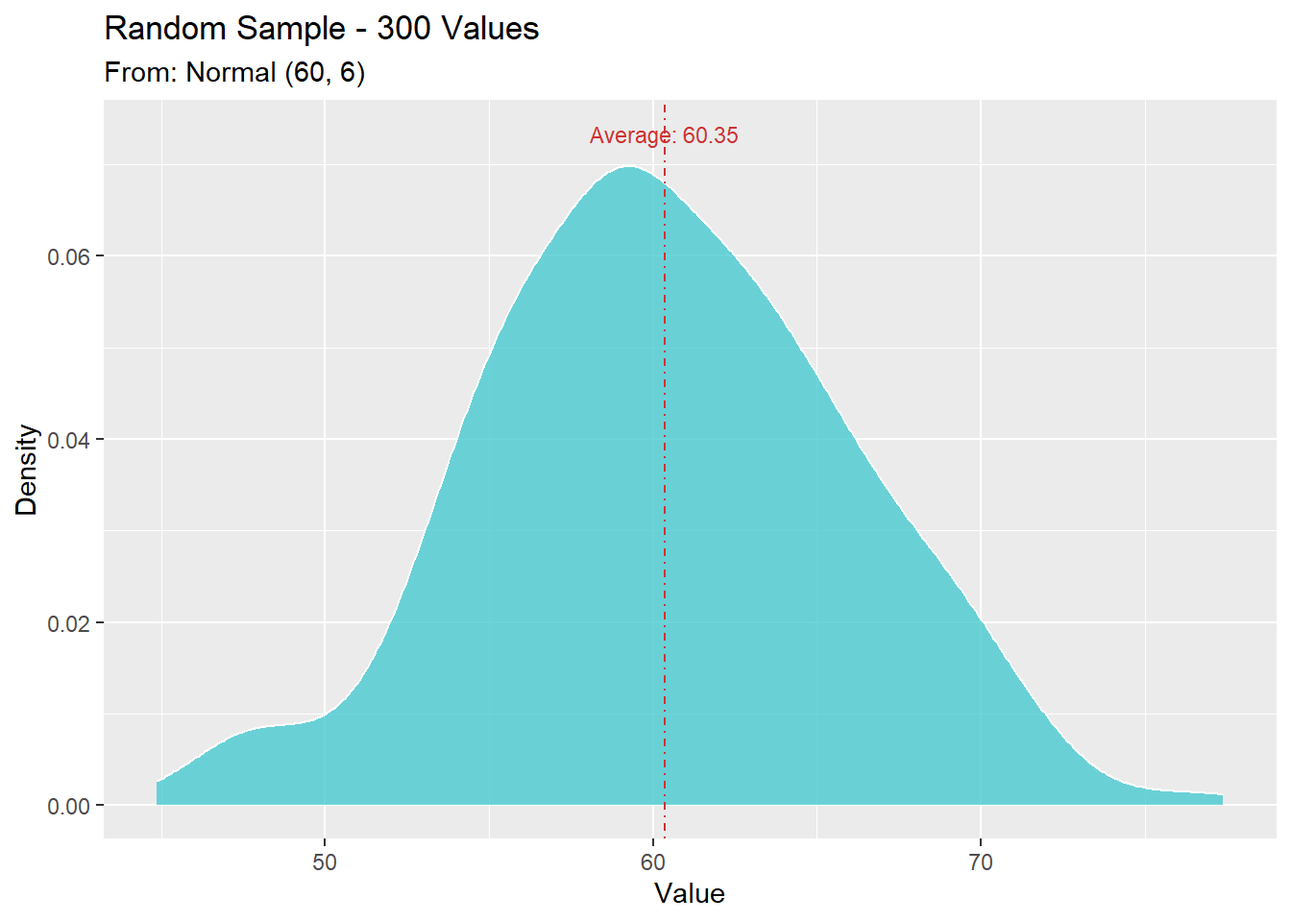
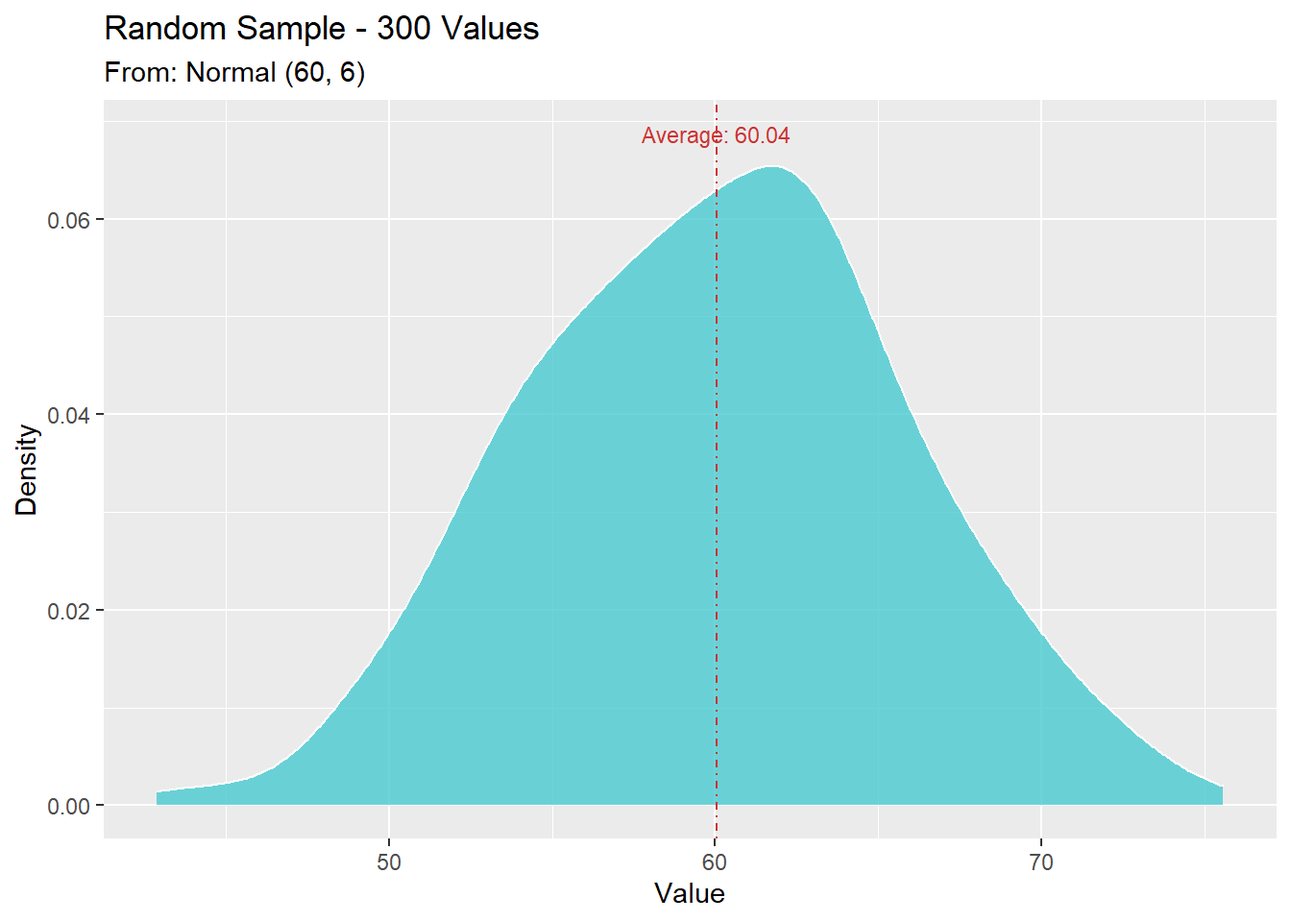
z test and t 4

diff --git a/משתנים-מקריים-והתפלגויות.html b/משתנים-מקריים-והתפלגויות.html
@@ -259,43 +259,43 @@ code span.wa { color: #60a0b0; font-weight: bold; font-style: italic; } /* Warni
 <pre><code>rgeom(n, prob)</code></pre>
 <p>דוגמה: נדגום 10 פעמים מתוך התפלגות גיאומטרית עם סיכוי 1/6 להצלחה.
 כמה כשלונות לפני ההצלחה הראשונה יהיו בכל אחד מהמקרים?</p>
-<div class="sourceCode" id="cb138"><pre class="sourceCode r"><code class="sourceCode r"><span id="cb138-1"><a href="משתנים-מקריים-והתפלגויות.html#cb138-1" aria-hidden="true" tabindex="-1"></a><span class="fu">rgeom</span>(<span class="at">n=</span><span class="dv">10</span>, <span class="at">prob=</span><span class="dv">1</span><span class="sc">/</span><span class="dv">6</span>)</span></code></pre></div>
-<pre><code>##  [1]  3 11  4  2  0 20  4  0  9  2</code></pre>
+<div class="sourceCode" id="cb2"><pre class="sourceCode r"><code class="sourceCode r"><span id="cb2-1"><a href="משתנים-מקריים-והתפלגויות.html#cb2-1" aria-hidden="true" tabindex="-1"></a><span class="fu">rgeom</span>(<span class="at">n=</span><span class="dv">10</span>, <span class="at">prob=</span><span class="dv">1</span><span class="sc">/</span><span class="dv">6</span>)</span></code></pre></div>
+<pre><code>##  [1]  2 11  9  2  0  7  0 20  3  0</code></pre>
 <h3>
 מציאת הסתברות ספציפית
 </h3>
 <pre><code>dgeom(x, prob, log = FALSE)</code></pre>
 <p>דוגמא: ההסתברות למאורע של שלושה כשלונות לפני הצלחה כאשר הסיכוי להצלחה בודדת הוא 1/4</p>
-<div class="sourceCode" id="cb141"><pre class="sourceCode r"><code class="sourceCode r"><span id="cb141-1"><a href="משתנים-מקריים-והתפלגויות.html#cb141-1" aria-hidden="true" tabindex="-1"></a>p <span class="ot">=</span> (<span class="dv">1</span><span class="sc">/</span><span class="dv">4</span>)</span>
-<span id="cb141-2"><a href="משתנים-מקריים-והתפלגויות.html#cb141-2" aria-hidden="true" tabindex="-1"></a>n <span class="ot">=</span> <span class="dv">3</span></span>
-<span id="cb141-3"><a href="משתנים-מקריים-והתפלגויות.html#cb141-3" aria-hidden="true" tabindex="-1"></a><span class="fu">dgeom</span>(<span class="at">x =</span> n, <span class="at">prob =</span> p) <span class="co"># 0.1054688</span></span></code></pre></div>
-<p><img src="R-Tutorials_files/figure-html/unnamed-chunk-55-1.png" width="672" style="display: block; margin: auto auto auto 0;" /></p>
+<div class="sourceCode" id="cb5"><pre class="sourceCode r"><code class="sourceCode r"><span id="cb5-1"><a href="משתנים-מקריים-והתפלגויות.html#cb5-1" aria-hidden="true" tabindex="-1"></a>p <span class="ot">=</span> (<span class="dv">1</span><span class="sc">/</span><span class="dv">4</span>)</span>
+<span id="cb5-2"><a href="משתנים-מקריים-והתפלגויות.html#cb5-2" aria-hidden="true" tabindex="-1"></a>n <span class="ot">=</span> <span class="dv">3</span></span>
+<span id="cb5-3"><a href="משתנים-מקריים-והתפלגויות.html#cb5-3" aria-hidden="true" tabindex="-1"></a><span class="fu">dgeom</span>(<span class="at">x =</span> n, <span class="at">prob =</span> p) <span class="co"># 0.1054688</span></span></code></pre></div>
+<p><img src="R-Tutorials_files/figure-html/unnamed-chunk-3-1.png" width="672" style="display: block; margin: auto auto auto 0;" /></p>
 <h3>
 הסתברות מצטברת עד לנקודה p
 </h3>
 <pre><code>pgeom(q, prob, lower.tail = TRUE, log.p = FALSE)</code></pre>
 <p>דוגמא: ההסתברות המצטברת של עד ארבעה כישלונות לפני הצלחה. (כלומר, הסיכוי לקבל ארבעה כשלונות לכל היותר לפני ההצלחה הראשונה. סכום ההסתברויות) מתוך התפלגות גיאומטרית עם הסתברות 1/3 להצלחה.</p>
-<div class="sourceCode" id="cb143"><pre class="sourceCode r"><code class="sourceCode r"><span id="cb143-1"><a href="משתנים-מקריים-והתפלגויות.html#cb143-1" aria-hidden="true" tabindex="-1"></a>p <span class="ot">=</span> <span class="dv">1</span><span class="sc">/</span><span class="dv">3</span></span>
-<span id="cb143-2"><a href="משתנים-מקריים-והתפלגויות.html#cb143-2" aria-hidden="true" tabindex="-1"></a>n <span class="ot">=</span> <span class="dv">4</span></span>
-<span id="cb143-3"><a href="משתנים-מקריים-והתפלגויות.html#cb143-3" aria-hidden="true" tabindex="-1"></a><span class="fu">pgeom</span>(<span class="at">q =</span> n, <span class="at">prob =</span> p, <span class="at">lower.tail =</span> <span class="cn">TRUE</span>) <span class="co"># 0.8683128</span></span></code></pre></div>
-<p><img src="R-Tutorials_files/figure-html/unnamed-chunk-57-1.png" width="672" style="display: block; margin: auto auto auto 0;" /></p>
+<div class="sourceCode" id="cb7"><pre class="sourceCode r"><code class="sourceCode r"><span id="cb7-1"><a href="משתנים-מקריים-והתפלגויות.html#cb7-1" aria-hidden="true" tabindex="-1"></a>p <span class="ot">=</span> <span class="dv">1</span><span class="sc">/</span><span class="dv">3</span></span>
+<span id="cb7-2"><a href="משתנים-מקריים-והתפלגויות.html#cb7-2" aria-hidden="true" tabindex="-1"></a>n <span class="ot">=</span> <span class="dv">4</span></span>
+<span id="cb7-3"><a href="משתנים-מקריים-והתפלגויות.html#cb7-3" aria-hidden="true" tabindex="-1"></a><span class="fu">pgeom</span>(<span class="at">q =</span> n, <span class="at">prob =</span> p, <span class="at">lower.tail =</span> <span class="cn">TRUE</span>) <span class="co"># 0.8683128</span></span></code></pre></div>
+<p><img src="R-Tutorials_files/figure-html/unnamed-chunk-5-1.png" width="672" style="display: block; margin: auto auto auto 0;" /></p>
 <h3>
 הסתברות מצטברת מנקודה p (כל הערכים שגדולים מ-p)
 </h3>
 <p>דוגמא: ההסתברות המצטברת של לפחות חמישה כישלונות לפני הצלחה. (כלומר, הסיכוי לקבל חמישה כשלונות או יותר לפני ההצלחה הראשונה. סכום ההסתברויות) מתוך התפלגות גיאומטרית עם הסתברות 1/3 להצלחה.</p>
-<div class="sourceCode" id="cb144"><pre class="sourceCode r"><code class="sourceCode r"><span id="cb144-1"><a href="משתנים-מקריים-והתפלגויות.html#cb144-1" aria-hidden="true" tabindex="-1"></a>p <span class="ot">=</span> <span class="dv">1</span><span class="sc">/</span><span class="dv">3</span></span>
-<span id="cb144-2"><a href="משתנים-מקריים-והתפלגויות.html#cb144-2" aria-hidden="true" tabindex="-1"></a>n <span class="ot">=</span> <span class="dv">4</span></span>
-<span id="cb144-3"><a href="משתנים-מקריים-והתפלגויות.html#cb144-3" aria-hidden="true" tabindex="-1"></a><span class="fu">pgeom</span>(<span class="at">q =</span> n, <span class="at">prob =</span> p, <span class="at">lower.tail =</span> <span class="cn">FALSE</span>) <span class="co"># 0.1316872</span></span></code></pre></div>
-<p><img src="R-Tutorials_files/figure-html/unnamed-chunk-59-1.png" width="672" style="display: block; margin: auto auto auto 0;" /></p>
+<div class="sourceCode" id="cb8"><pre class="sourceCode r"><code class="sourceCode r"><span id="cb8-1"><a href="משתנים-מקריים-והתפלגויות.html#cb8-1" aria-hidden="true" tabindex="-1"></a>p <span class="ot">=</span> <span class="dv">1</span><span class="sc">/</span><span class="dv">3</span></span>
+<span id="cb8-2"><a href="משתנים-מקריים-והתפלגויות.html#cb8-2" aria-hidden="true" tabindex="-1"></a>n <span class="ot">=</span> <span class="dv">4</span></span>
+<span id="cb8-3"><a href="משתנים-מקריים-והתפלגויות.html#cb8-3" aria-hidden="true" tabindex="-1"></a><span class="fu">pgeom</span>(<span class="at">q =</span> n, <span class="at">prob =</span> p, <span class="at">lower.tail =</span> <span class="cn">FALSE</span>) <span class="co"># 0.1316872</span></span></code></pre></div>
+<p><img src="R-Tutorials_files/figure-html/unnamed-chunk-7-1.png" width="672" style="display: block; margin: auto auto auto 0;" /></p>
 <h3>
 מציאת מספר הכשלונות לפני הצלחה בהתפלגות גיאומטרית תיאורטית, המתאים להסתברות מצטברת
 </h3>
 <pre><code>qgeom(p, prob, lower.tail = TRUE, log.p = FALSE)</code></pre>
 <p>זאת בעצם הפונקציה ההופכית של pgeom. כלומר - pgeom מקבלת מספר כשלונות ומחזירה את ההסתברות המצטברת. qgeom מקבלת הסתברות מצטברת ומחזירה מספר כשלונות תואם. <br>
 דוגמא: כמה כישלונות ייתקבלו לפני ההצלחה הראשונה בהסתברות מצטברת 0.8 כאשר ההסתברות להצלחה היא 0.2?</p>
-<div class="sourceCode" id="cb146"><pre class="sourceCode r"><code class="sourceCode r"><span id="cb146-1"><a href="משתנים-מקריים-והתפלגויות.html#cb146-1" aria-hidden="true" tabindex="-1"></a><span class="fu">qgeom</span>(<span class="at">p =</span> <span class="fl">0.8</span>, <span class="at">prob =</span> .<span class="dv">2</span>)</span></code></pre></div>
+<div class="sourceCode" id="cb10"><pre class="sourceCode r"><code class="sourceCode r"><span id="cb10-1"><a href="משתנים-מקריים-והתפלגויות.html#cb10-1" aria-hidden="true" tabindex="-1"></a><span class="fu">qgeom</span>(<span class="at">p =</span> <span class="fl">0.8</span>, <span class="at">prob =</span> .<span class="dv">2</span>)</span></code></pre></div>
 <pre><code>## [1] 7</code></pre>
-<p><img src="R-Tutorials_files/figure-html/unnamed-chunk-61-1.png" width="672" style="display: block; margin: auto auto auto 0;" /></p>
+<p><img src="R-Tutorials_files/figure-html/unnamed-chunk-9-1.png" width="672" style="display: block; margin: auto auto auto 0;" /></p>
 <p><a href="https://stat.ethz.ch/R-manual/R-devel/library/stats/html/Geometric.html" target="_blank">התיעוד הרשמי של הפונקציות dgeom, rgeom, pgeom, qgeom</a> <br></p>
 <hr>
 </div>
@@ -307,46 +307,46 @@ code span.wa { color: #60a0b0; font-weight: bold; font-style: italic; } /* Warni
 <pre><code>rbinom(n, size, prob)</code></pre>
 <p>דוגמה: נדגום 5 פעמים מתוך התפלגות בינומית הכוללת 10 ניסויי ברנולי עם הסתברות 1/3 להצלחה.
 כמה הצלחות יהיו בכל אחד מהמקרים?</p>
-<div class="sourceCode" id="cb149"><pre class="sourceCode r"><code class="sourceCode r"><span id="cb149-1"><a href="משתנים-מקריים-והתפלגויות.html#cb149-1" aria-hidden="true" tabindex="-1"></a><span class="fu">rbinom</span>(<span class="at">n=</span><span class="dv">5</span>, <span class="at">size=</span><span class="dv">10</span>, <span class="at">prob=</span><span class="dv">1</span><span class="sc">/</span><span class="dv">3</span>)</span></code></pre></div>
-<pre><code>## [1] 4 2 5 5 2</code></pre>
+<div class="sourceCode" id="cb13"><pre class="sourceCode r"><code class="sourceCode r"><span id="cb13-1"><a href="משתנים-מקריים-והתפלגויות.html#cb13-1" aria-hidden="true" tabindex="-1"></a><span class="fu">rbinom</span>(<span class="at">n=</span><span class="dv">5</span>, <span class="at">size=</span><span class="dv">10</span>, <span class="at">prob=</span><span class="dv">1</span><span class="sc">/</span><span class="dv">3</span>)</span></code></pre></div>
+<pre><code>## [1] 4 2 3 3 4</code></pre>
 <h3>
 מציאת הסתברות ספציפית
 </h3>
 <pre><code>dbinom(x, size, prob, log = FALSE)</code></pre>
 <p>דוגמא: ההסתברות למאורע של בדיוק 3 הצלחות מתוך 7 ניסויי ברנולי עם הסתברות 3/5 להצלחה</p>
-<div class="sourceCode" id="cb152"><pre class="sourceCode r"><code class="sourceCode r"><span id="cb152-1"><a href="משתנים-מקריים-והתפלגויות.html#cb152-1" aria-hidden="true" tabindex="-1"></a>p <span class="ot">=</span> (<span class="dv">3</span><span class="sc">/</span><span class="dv">5</span>)</span>
-<span id="cb152-2"><a href="משתנים-מקריים-והתפלגויות.html#cb152-2" aria-hidden="true" tabindex="-1"></a>size <span class="ot">=</span> <span class="dv">7</span></span>
-<span id="cb152-3"><a href="משתנים-מקריים-והתפלגויות.html#cb152-3" aria-hidden="true" tabindex="-1"></a>successes <span class="ot">=</span> <span class="dv">3</span></span>
-<span id="cb152-4"><a href="משתנים-מקריים-והתפלגויות.html#cb152-4" aria-hidden="true" tabindex="-1"></a><span class="fu">dbinom</span>(<span class="at">x =</span> successes, <span class="at">size =</span> size, <span class="at">prob =</span> p) <span class="co"># 0.193536</span></span></code></pre></div>
-<p><img src="R-Tutorials_files/figure-html/unnamed-chunk-64-1.png" width="672" style="display: block; margin: auto auto auto 0;" /></p>
+<div class="sourceCode" id="cb16"><pre class="sourceCode r"><code class="sourceCode r"><span id="cb16-1"><a href="משתנים-מקריים-והתפלגויות.html#cb16-1" aria-hidden="true" tabindex="-1"></a>p <span class="ot">=</span> (<span class="dv">3</span><span class="sc">/</span><span class="dv">5</span>)</span>
+<span id="cb16-2"><a href="משתנים-מקריים-והתפלגויות.html#cb16-2" aria-hidden="true" tabindex="-1"></a>size <span class="ot">=</span> <span class="dv">7</span></span>
+<span id="cb16-3"><a href="משתנים-מקריים-והתפלגויות.html#cb16-3" aria-hidden="true" tabindex="-1"></a>successes <span class="ot">=</span> <span class="dv">3</span></span>
+<span id="cb16-4"><a href="משתנים-מקריים-והתפלגויות.html#cb16-4" aria-hidden="true" tabindex="-1"></a><span class="fu">dbinom</span>(<span class="at">x =</span> successes, <span class="at">size =</span> size, <span class="at">prob =</span> p) <span class="co"># 0.193536</span></span></code></pre></div>
+<p><img src="R-Tutorials_files/figure-html/unnamed-chunk-12-1.png" width="672" style="display: block; margin: auto auto auto 0;" /></p>
 <h3>
 הסתברות מצטברת עד לנקודה p
 </h3>
 <pre><code>pbinom(q, size, prob, lower.tail = TRUE, log.p = FALSE)</code></pre>
 <p>דוגמא: ההסתברות המצטברת של עד 3 הצלחות. (כלומר, הסיכוי לקבל שלוש הצלחות לכל היותר. סכום ההסתברויות) מתוך התפלגות בינומית הכוללת 6 ניסויי ברנולי עם הסתברות 2/3 להצלחה.</p>
-<div class="sourceCode" id="cb154"><pre class="sourceCode r"><code class="sourceCode r"><span id="cb154-1"><a href="משתנים-מקריים-והתפלגויות.html#cb154-1" aria-hidden="true" tabindex="-1"></a>p <span class="ot">=</span> <span class="dv">2</span><span class="sc">/</span><span class="dv">3</span></span>
-<span id="cb154-2"><a href="משתנים-מקריים-והתפלגויות.html#cb154-2" aria-hidden="true" tabindex="-1"></a>n <span class="ot">=</span> <span class="dv">3</span></span>
-<span id="cb154-3"><a href="משתנים-מקריים-והתפלגויות.html#cb154-3" aria-hidden="true" tabindex="-1"></a>size <span class="ot">=</span> <span class="dv">6</span></span>
-<span id="cb154-4"><a href="משתנים-מקריים-והתפלגויות.html#cb154-4" aria-hidden="true" tabindex="-1"></a><span class="fu">pbinom</span>(<span class="at">q =</span> n, <span class="at">size =</span> size, <span class="at">prob =</span> p, <span class="at">lower.tail =</span> <span class="cn">TRUE</span>) <span class="co"># 0.3196159</span></span></code></pre></div>
-<p><img src="R-Tutorials_files/figure-html/unnamed-chunk-66-1.png" width="672" style="display: block; margin: auto auto auto 0;" /></p>
+<div class="sourceCode" id="cb18"><pre class="sourceCode r"><code class="sourceCode r"><span id="cb18-1"><a href="משתנים-מקריים-והתפלגויות.html#cb18-1" aria-hidden="true" tabindex="-1"></a>p <span class="ot">=</span> <span class="dv">2</span><span class="sc">/</span><span class="dv">3</span></span>
+<span id="cb18-2"><a href="משתנים-מקריים-והתפלגויות.html#cb18-2" aria-hidden="true" tabindex="-1"></a>n <span class="ot">=</span> <span class="dv">3</span></span>
+<span id="cb18-3"><a href="משתנים-מקריים-והתפלגויות.html#cb18-3" aria-hidden="true" tabindex="-1"></a>size <span class="ot">=</span> <span class="dv">6</span></span>
+<span id="cb18-4"><a href="משתנים-מקריים-והתפלגויות.html#cb18-4" aria-hidden="true" tabindex="-1"></a><span class="fu">pbinom</span>(<span class="at">q =</span> n, <span class="at">size =</span> size, <span class="at">prob =</span> p, <span class="at">lower.tail =</span> <span class="cn">TRUE</span>) <span class="co"># 0.3196159</span></span></code></pre></div>
+<p><img src="R-Tutorials_files/figure-html/unnamed-chunk-14-1.png" width="672" style="display: block; margin: auto auto auto 0;" /></p>
 <h3>
 הסתברות מצטברת מנקודה p (כל הערכים שגדולים מ-p)
 </h3>
 <p>דוגמא: ההסתברות המצטברת של לפחות 4 הצלחות. (כלומר, הסיכוי לקבל יותר מ-3 הצלחות) מתוך התפלגות בינומית הכוללת 7 ניסויי ברנולי עם הסתברות 1/2 להצלחה.</p>
-<div class="sourceCode" id="cb155"><pre class="sourceCode r"><code class="sourceCode r"><span id="cb155-1"><a href="משתנים-מקריים-והתפלגויות.html#cb155-1" aria-hidden="true" tabindex="-1"></a>p <span class="ot">=</span> <span class="dv">1</span><span class="sc">/</span><span class="dv">2</span></span>
-<span id="cb155-2"><a href="משתנים-מקריים-והתפלגויות.html#cb155-2" aria-hidden="true" tabindex="-1"></a>n <span class="ot">=</span> <span class="dv">3</span></span>
-<span id="cb155-3"><a href="משתנים-מקריים-והתפלגויות.html#cb155-3" aria-hidden="true" tabindex="-1"></a>size <span class="ot">=</span> <span class="dv">7</span></span>
-<span id="cb155-4"><a href="משתנים-מקריים-והתפלגויות.html#cb155-4" aria-hidden="true" tabindex="-1"></a><span class="fu">pbinom</span>(<span class="at">q =</span> n, <span class="at">size =</span> size, <span class="at">prob =</span> p, <span class="at">lower.tail =</span> <span class="cn">FALSE</span>) <span class="co"># 0.5</span></span></code></pre></div>
-<p><img src="R-Tutorials_files/figure-html/unnamed-chunk-68-1.png" width="672" style="display: block; margin: auto auto auto 0;" /></p>
+<div class="sourceCode" id="cb19"><pre class="sourceCode r"><code class="sourceCode r"><span id="cb19-1"><a href="משתנים-מקריים-והתפלגויות.html#cb19-1" aria-hidden="true" tabindex="-1"></a>p <span class="ot">=</span> <span class="dv">1</span><span class="sc">/</span><span class="dv">2</span></span>
+<span id="cb19-2"><a href="משתנים-מקריים-והתפלגויות.html#cb19-2" aria-hidden="true" tabindex="-1"></a>n <span class="ot">=</span> <span class="dv">3</span></span>
+<span id="cb19-3"><a href="משתנים-מקריים-והתפלגויות.html#cb19-3" aria-hidden="true" tabindex="-1"></a>size <span class="ot">=</span> <span class="dv">7</span></span>
+<span id="cb19-4"><a href="משתנים-מקריים-והתפלגויות.html#cb19-4" aria-hidden="true" tabindex="-1"></a><span class="fu">pbinom</span>(<span class="at">q =</span> n, <span class="at">size =</span> size, <span class="at">prob =</span> p, <span class="at">lower.tail =</span> <span class="cn">FALSE</span>) <span class="co"># 0.5</span></span></code></pre></div>
+<p><img src="R-Tutorials_files/figure-html/unnamed-chunk-16-1.png" width="672" style="display: block; margin: auto auto auto 0;" /></p>
 <h3>
 מציאת מספר ההצלחות בהתפלגות בינומית תיאורטית, המתאים להסתברות מצטברת
 </h3>
 <pre><code>qbinom(p, size, prob, lower.tail = TRUE, log.p = FALSE)</code></pre>
 <p>זאת בעצם הפונקציה ההופכית של pbinom. כלומר - pbinom מקבלת מספר הצלחות ומחזירה את ההסתברות המצטברת. qbinom מקבלת הסתברות מצטברת ומחזירה מספר הצלחות תואם. <br>
 דוגמא: כמה הצלחות ייתקבלו בהסתברות מצטברת 0.7 מתוך התפלגות בינומית הכוללת 7 ניסויי ברנולי עם הסתברות 1/3 להצלחה. (או - מה הוא מספר ההצלחות שמעליו נמצאים 30% מהערכים האפשריים)</p>
-<div class="sourceCode" id="cb157"><pre class="sourceCode r"><code class="sourceCode r"><span id="cb157-1"><a href="משתנים-מקריים-והתפלגויות.html#cb157-1" aria-hidden="true" tabindex="-1"></a><span class="fu">qbinom</span>(<span class="at">p =</span> <span class="fl">0.7</span>, <span class="at">size=</span><span class="dv">7</span>, <span class="at">prob =</span> <span class="dv">1</span><span class="sc">/</span><span class="dv">3</span>)</span></code></pre></div>
+<div class="sourceCode" id="cb21"><pre class="sourceCode r"><code class="sourceCode r"><span id="cb21-1"><a href="משתנים-מקריים-והתפלגויות.html#cb21-1" aria-hidden="true" tabindex="-1"></a><span class="fu">qbinom</span>(<span class="at">p =</span> <span class="fl">0.7</span>, <span class="at">size=</span><span class="dv">7</span>, <span class="at">prob =</span> <span class="dv">1</span><span class="sc">/</span><span class="dv">3</span>)</span></code></pre></div>
 <pre><code>## [1] 3</code></pre>
-<p><img src="R-Tutorials_files/figure-html/unnamed-chunk-70-1.png" width="672" style="display: block; margin: auto auto auto 0;" /></p>
+<p><img src="R-Tutorials_files/figure-html/unnamed-chunk-18-1.png" width="672" style="display: block; margin: auto auto auto 0;" /></p>
 <p><a href="https://stat.ethz.ch/R-manual/R-devel/library/stats/html/Binomial.html" target="_blank">התיעוד הרשמי של הפונקציות dbinom, rbinom, pbinom, qbinom</a> <br></p>
 </div>
 <div id="התפלגות-נורמלית" class="section level2 hasAnchor" number="9.3">
@@ -357,40 +357,40 @@ code span.wa { color: #60a0b0; font-weight: bold; font-style: italic; } /* Warni
 <pre><code>rnorm(n, mean = 0, sd = 1)</code></pre>
 <p>דוגמה: נדגום 300 ערכים מתוך התפלגות נורמלית עם תוחלת 60 וסטיית תקן 6. <br>
 <em>הערה: ברירת המחדל של הפונקציה היא לדגום מתוך התפלגות נורמלית סטנדרטית (תוחלת 0 וסטיית תקן 1)</em></p>
-<div class="sourceCode" id="cb160"><pre class="sourceCode r"><code class="sourceCode r"><span id="cb160-1"><a href="משתנים-מקריים-והתפלגויות.html#cb160-1" aria-hidden="true" tabindex="-1"></a>n <span class="ot">=</span> <span class="dv">300</span></span>
-<span id="cb160-2"><a href="משתנים-מקריים-והתפלגויות.html#cb160-2" aria-hidden="true" tabindex="-1"></a>mean <span class="ot">=</span> <span class="dv">60</span></span>
-<span id="cb160-3"><a href="משתנים-מקריים-והתפלגויות.html#cb160-3" aria-hidden="true" tabindex="-1"></a>sd <span class="ot">=</span> <span class="dv">6</span></span>
-<span id="cb160-4"><a href="משתנים-מקריים-והתפלגויות.html#cb160-4" aria-hidden="true" tabindex="-1"></a>norm_sample <span class="ot">&lt;-</span> <span class="fu">rnorm</span>(<span class="at">n=</span>n, <span class="at">mean=</span>mean, <span class="at">sd=</span>sd)</span>
-<span id="cb160-5"><a href="משתנים-מקריים-והתפלגויות.html#cb160-5" aria-hidden="true" tabindex="-1"></a><span class="co"># print the first 20 items</span></span>
-<span id="cb160-6"><a href="משתנים-מקריים-והתפלגויות.html#cb160-6" aria-hidden="true" tabindex="-1"></a><span class="fu">print</span>(norm_sample[<span class="dv">0</span><span class="sc">:</span><span class="dv">20</span>])</span></code></pre></div>
-<pre><code>##  [1] 63.57442 66.02607 66.57421 64.82201 59.35782 62.20865 68.42585 60.20255
-##  [9] 65.09590 55.69509 46.75206 49.20084 54.55330 54.68228 51.25400 59.41590
-## [17] 68.37518 58.69086 56.86264 55.21765</code></pre>
+<div class="sourceCode" id="cb24"><pre class="sourceCode r"><code class="sourceCode r"><span id="cb24-1"><a href="משתנים-מקריים-והתפלגויות.html#cb24-1" aria-hidden="true" tabindex="-1"></a>n <span class="ot">=</span> <span class="dv">300</span></span>
+<span id="cb24-2"><a href="משתנים-מקריים-והתפלגויות.html#cb24-2" aria-hidden="true" tabindex="-1"></a>mean <span class="ot">=</span> <span class="dv">60</span></span>
+<span id="cb24-3"><a href="משתנים-מקריים-והתפלגויות.html#cb24-3" aria-hidden="true" tabindex="-1"></a>sd <span class="ot">=</span> <span class="dv">6</span></span>
+<span id="cb24-4"><a href="משתנים-מקריים-והתפלגויות.html#cb24-4" aria-hidden="true" tabindex="-1"></a>norm_sample <span class="ot">&lt;-</span> <span class="fu">rnorm</span>(<span class="at">n=</span>n, <span class="at">mean=</span>mean, <span class="at">sd=</span>sd)</span>
+<span id="cb24-5"><a href="משתנים-מקריים-והתפלגויות.html#cb24-5" aria-hidden="true" tabindex="-1"></a><span class="co"># print the first 20 items</span></span>
+<span id="cb24-6"><a href="משתנים-מקריים-והתפלגויות.html#cb24-6" aria-hidden="true" tabindex="-1"></a><span class="fu">print</span>(norm_sample[<span class="dv">0</span><span class="sc">:</span><span class="dv">20</span>])</span></code></pre></div>
+<pre><code>##  [1] 51.67233 53.32431 69.04341 65.12751 64.12149 57.37924 62.22402 62.54497
+##  [9] 60.80654 67.32395 62.28088 51.80256 54.13205 57.30581 53.55748 58.90666
+## [17] 55.29403 54.83831 61.73867 54.25352</code></pre>
 <p>אלו היו עשרים הערכים הראשונים מתוך 300 הערכים במדגם. <br>
 <em>שימו לב שממוצע המדגם לא יהיה 60, אלא רק קרוב ל60, ההתפלגות הנורמלית התיאורטית מייצגת אין סוף ערכים, בעוד שאנחנו דגמנו מקרית מספר סופי של ערכים.</em> <br>
 <em>גם סטיית התקן של המדגם תהיה קרובה ל-6 ולא זהה ל-6. בדיוק מאותה סיבה.</em> <br>
 <em>כמו כן, צורת ההתפלגות <b>קרובה</b> לנורמלית</em></p>
-<p><img src="R-Tutorials_files/figure-html/unnamed-chunk-72-1.png" width="672" style="display: block; margin: auto auto auto 0;" /></p>
+<p><img src="R-Tutorials_files/figure-html/unnamed-chunk-20-1.png" width="672" style="display: block; margin: auto auto auto 0;" /></p>
 <h3>
 מציאת צפיפות של ערך
 </h3>
 <pre><code>dnorm(x, mean = 0, sd = 1, log = FALSE)</code></pre>
 <p>דוגמא: הצפיפות של הערך 175, מתוך התפלגות נורמלית עם תוחלת 170 וסטיית תקן 5</p>
-<div class="sourceCode" id="cb163"><pre class="sourceCode r"><code class="sourceCode r"><span id="cb163-1"><a href="משתנים-מקריים-והתפלגויות.html#cb163-1" aria-hidden="true" tabindex="-1"></a><span class="fu">dnorm</span>(<span class="at">x=</span><span class="dv">175</span>, <span class="at">mean=</span><span class="dv">170</span>, <span class="at">sd=</span><span class="dv">5</span>)</span></code></pre></div>
+<div class="sourceCode" id="cb27"><pre class="sourceCode r"><code class="sourceCode r"><span id="cb27-1"><a href="משתנים-מקריים-והתפלגויות.html#cb27-1" aria-hidden="true" tabindex="-1"></a><span class="fu">dnorm</span>(<span class="at">x=</span><span class="dv">175</span>, <span class="at">mean=</span><span class="dv">170</span>, <span class="at">sd=</span><span class="dv">5</span>)</span></code></pre></div>
 <pre><code>## [1] 0.04839414</code></pre>
-<p><img src="R-Tutorials_files/figure-html/unnamed-chunk-74-1.png" width="672" style="display: block; margin: auto auto auto 0;" /></p>
+<p><img src="R-Tutorials_files/figure-html/unnamed-chunk-22-1.png" width="672" style="display: block; margin: auto auto auto 0;" /></p>
 <h3>
 מציאת הסתברות מצטברת עד ערך
 </h3>
 <pre><code>pnorm(q, mean = 0, sd = 1, lower.tail = TRUE, log.p = FALSE)</code></pre>
 <p>דוגמא: ההסתברות לדגום ערך שקטן או שווה ל-120 מתוך התפלגות נורמלית עם תוחלת 100 וסטיית תקן 12. <br>
 <em>הערה - שימו לב שמדובר ב<b>הסתברות מצטברת</b>, ולא בצפיפות, אפילו שמדובר בהתפלגות רציפה</em></p>
-<div class="sourceCode" id="cb166"><pre class="sourceCode r"><code class="sourceCode r"><span id="cb166-1"><a href="משתנים-מקריים-והתפלגויות.html#cb166-1" aria-hidden="true" tabindex="-1"></a>q<span class="ot">=</span><span class="dv">120</span></span>
-<span id="cb166-2"><a href="משתנים-מקריים-והתפלגויות.html#cb166-2" aria-hidden="true" tabindex="-1"></a>mean<span class="ot">=</span><span class="dv">100</span></span>
-<span id="cb166-3"><a href="משתנים-מקריים-והתפלגויות.html#cb166-3" aria-hidden="true" tabindex="-1"></a>sd<span class="ot">=</span><span class="dv">12</span></span>
-<span id="cb166-4"><a href="משתנים-מקריים-והתפלגויות.html#cb166-4" aria-hidden="true" tabindex="-1"></a><span class="fu">pnorm</span>(<span class="at">q =</span> q, <span class="at">mean =</span> mean, <span class="at">sd =</span> sd)</span></code></pre></div>
+<div class="sourceCode" id="cb30"><pre class="sourceCode r"><code class="sourceCode r"><span id="cb30-1"><a href="משתנים-מקריים-והתפלגויות.html#cb30-1" aria-hidden="true" tabindex="-1"></a>q<span class="ot">=</span><span class="dv">120</span></span>
+<span id="cb30-2"><a href="משתנים-מקריים-והתפלגויות.html#cb30-2" aria-hidden="true" tabindex="-1"></a>mean<span class="ot">=</span><span class="dv">100</span></span>
+<span id="cb30-3"><a href="משתנים-מקריים-והתפלגויות.html#cb30-3" aria-hidden="true" tabindex="-1"></a>sd<span class="ot">=</span><span class="dv">12</span></span>
+<span id="cb30-4"><a href="משתנים-מקריים-והתפלגויות.html#cb30-4" aria-hidden="true" tabindex="-1"></a><span class="fu">pnorm</span>(<span class="at">q =</span> q, <span class="at">mean =</span> mean, <span class="at">sd =</span> sd)</span></code></pre></div>
 <pre><code>## [1] 0.9522096</code></pre>
-<p><img src="R-Tutorials_files/figure-html/unnamed-chunk-76-1.png" width="672" style="display: block; margin: auto auto auto 0;" /></p>
+<p><img src="R-Tutorials_files/figure-html/unnamed-chunk-24-1.png" width="672" style="display: block; margin: auto auto auto 0;" /></p>
 <h3>
 מציאת ערך תואם להתסברות מצטברת (מאון)
 </h3>
@@ -398,14 +398,14 @@ code span.wa { color: #60a0b0; font-weight: bold; font-style: italic; } /* Warni
 <p>דוגמא: עבור איזה ערך מתוך התפלגות נורמלית עם תוחלת 200 וסטיית תקן 30, ההתסתברות המצטברת היא 50%? (כלומר, עד אליו יתקבלו 50% מהערכים). <br>
 במילים אחרות - מה הוא הערך במאון ה-50 (החציון) עבור התפלגות נורמלית זו. <br>
 <em>הערה - זאת הפונקציה ההופכית של pnorm. הפונקציה pnorm מקבלת ערך ומחזירה את הההסתברות המצבטרת עד אליו, qnorm מקבלת הסתברות מצטברת ומחזירה את הערך התואם אליה</em></p>
-<div class="sourceCode" id="cb169"><pre class="sourceCode r"><code class="sourceCode r"><span id="cb169-1"><a href="משתנים-מקריים-והתפלגויות.html#cb169-1" aria-hidden="true" tabindex="-1"></a>p<span class="ot">=</span><span class="fl">0.5</span></span>
-<span id="cb169-2"><a href="משתנים-מקריים-והתפלגויות.html#cb169-2" aria-hidden="true" tabindex="-1"></a>mean<span class="ot">=</span><span class="dv">200</span></span>
-<span id="cb169-3"><a href="משתנים-מקריים-והתפלגויות.html#cb169-3" aria-hidden="true" tabindex="-1"></a>sd<span class="ot">=</span><span class="dv">30</span></span>
-<span id="cb169-4"><a href="משתנים-מקריים-והתפלגויות.html#cb169-4" aria-hidden="true" tabindex="-1"></a>q <span class="ot">=</span> <span class="fu">qnorm</span>(<span class="at">p =</span> p, <span class="at">mean =</span> mean, <span class="at">sd =</span> sd)</span>
-<span id="cb169-5"><a href="משתנים-מקריים-והתפלגויות.html#cb169-5" aria-hidden="true" tabindex="-1"></a><span class="fu">print</span>(q)</span></code></pre></div>
+<div class="sourceCode" id="cb33"><pre class="sourceCode r"><code class="sourceCode r"><span id="cb33-1"><a href="משתנים-מקריים-והתפלגויות.html#cb33-1" aria-hidden="true" tabindex="-1"></a>p<span class="ot">=</span><span class="fl">0.5</span></span>
+<span id="cb33-2"><a href="משתנים-מקריים-והתפלגויות.html#cb33-2" aria-hidden="true" tabindex="-1"></a>mean<span class="ot">=</span><span class="dv">200</span></span>
+<span id="cb33-3"><a href="משתנים-מקריים-והתפלגויות.html#cb33-3" aria-hidden="true" tabindex="-1"></a>sd<span class="ot">=</span><span class="dv">30</span></span>
+<span id="cb33-4"><a href="משתנים-מקריים-והתפלגויות.html#cb33-4" aria-hidden="true" tabindex="-1"></a>q <span class="ot">=</span> <span class="fu">qnorm</span>(<span class="at">p =</span> p, <span class="at">mean =</span> mean, <span class="at">sd =</span> sd)</span>
+<span id="cb33-5"><a href="משתנים-מקריים-והתפלגויות.html#cb33-5" aria-hidden="true" tabindex="-1"></a><span class="fu">print</span>(q)</span></code></pre></div>
 <pre><code>## [1] 200</code></pre>
 <p>בהתפלגות נורלית תיאורטית התוחלת שווה לחציון (וגם לשכיח) ולכן הערך במאון ה-50 יהיה 200.
-<img src="R-Tutorials_files/figure-html/unnamed-chunk-78-1.png" width="672" style="display: block; margin: auto auto auto 0;" /></p>
+<img src="R-Tutorials_files/figure-html/unnamed-chunk-26-1.png" width="672" style="display: block; margin: auto auto auto 0;" /></p>
 <p><a href="https://stat.ethz.ch/R-manual/R-devel/library/stats/html/Normal.html" target="_blank">התיעוד הרשמי של הפונקציות dnorm, rnorm, pnorm, qnorm</a> <br></p>
 
 </div>
@@ -471,20 +471,6 @@ gitbook.start({
 });
 </script>
 
-<!-- dynamically load mathjax for compatibility with self-contained -->
-<script>
-  (function () {
-    var script = document.createElement("script");
-    script.type = "text/javascript";
-    var src = "true";
-    if (src === "" || src === "true") src = "https://mathjax.rstudio.com/latest/MathJax.js?config=TeX-MML-AM_CHTML";
-    if (location.protocol !== "file:")
-      if (/^https?:/.test(src))
-        src = src.replace(/^https?:/, '');
-    script.src = src;
-    document.getElementsByTagName("head")[0].appendChild(script);
-  })();
-</script>
 </body>
 
 </html>
